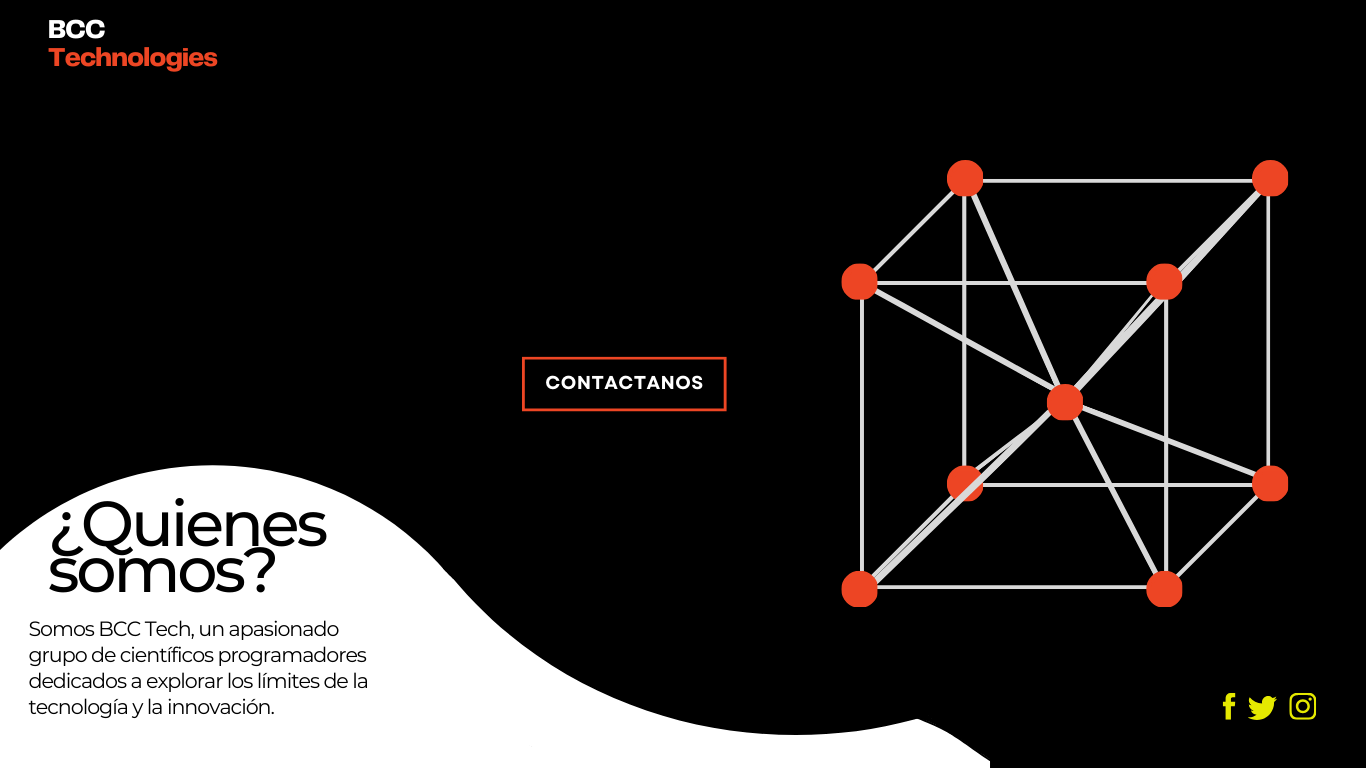
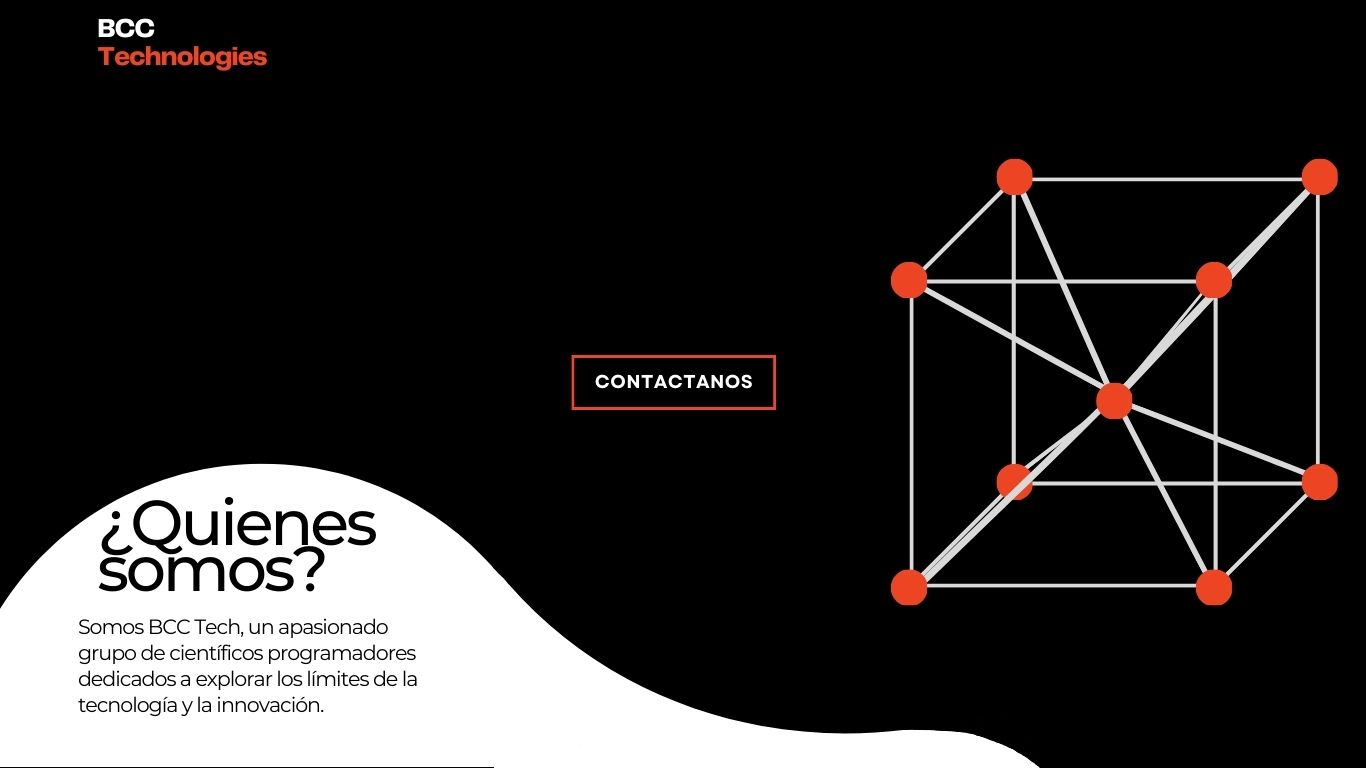
Segunda prueba para ajustar landing y organizar

diff --git a/static/html originales/aboutUs.html b/static/html originales/aboutUs.html
@@ -1,0 +1,76 @@
+<!DOCTYPE html>
+<html lang="en">
+<head>
+    <meta charset="UTF-8">
+    <meta name="viewport" content="width=device-width, initial-scale=1.0">
+    <title>BCC Technologies</title>
+    <link rel="stylesheet" href="static/aboutUs.css">
+    <link rel="icon" type="image/png" href="static/logo.png">
+</head>
+<body>
+    <header>
+        <div class="header-container">
+            <h1>BCC Technologies</h1>
+            <nav>
+                <ul>
+                    <li><a href="">Home</a></li>
+                    <li><a href="Services/">Services</a></li>
+                    <li><a href="aboutUs/">About Us</a></li>
+                    <li><a href="Contact/">Contact</a></li>
+                    <li><a href="blog/">BCC blog</a></li>
+                </ul>
+            </nav>
+        </div>
+    </header>
+
+    <section class="hero">
+        <div class="hero-container">
+            <h2>Welcome to Our Software Company</h2>
+            <p>We create innovative solutions that drive your business forward.</p>
+            <a href="Services/" class="cta-button">Learn More</a>
+        </div>
+    </section>
+
+    <section class="about">
+        <div class="about-container">
+            <h2>About Us</h2>
+            <p>Who are we? We are BCC Tech, a passionate group of programmer-scientists dedicated to exploring the limits of technology and innovation. Our story begins as physics students with a deep curiosity for the unknown and a passion for expanding knowledge.</p>
+            <p>Our name, in addition to combining our last names, is a tribute to the "Body Central Cubic" which is a concept of importance in solid-state physics.</p>
+            <p>What do we do? At BCC Tech, we specialize in custom software development that transforms ideas into concrete solutions. Whether creating cross-platform applications for companies in various industries or designing innovative products for the general public, our approach is always the same: make the complex easy and expand the interesting.</p>
+
+        </div>
+    </section>
+
+    <section class="services">
+        <div class="services-container">
+            <h2 class="headertekst">Our staff</h2>
+            <div class="service-card">
+                <img src="{% static 'confsulting.jpeg' %}" alt="">
+                <h3>Gabriel Barreiro</h3>
+                <p>Director del departamento de vainas bacanas</p>
+            </div>
+            <div class="service-card">
+                <img src="mobile-development.png" alt="">
+                <h3>Saul Castillo</h3>
+                <p>Director del departamento de marketing</p>
+            </div>
+            <div class="service-card">
+                <img src="consulting.png" alt="">
+                <h3>Enrique Casanova</h3>
+                <p>Director del departamento de finanzas</p>
+            </div>
+            <div class="service-card">
+                <img src="consulting.png" alt="">
+                <h3>Jesus Matos</h3>
+                <p>Asesor especialista en Proyectos</p>
+            </div>
+        </div>
+    </section>
+
+    <footer>
+        <div class="footer-container">
+            <p>&copy; 2023 BCC Technologies. All rights reserved.</p>
+        </div>
+    </footer>
+</body>
+</html>

diff --git a/static/html originales/blog1.html b/static/html originales/blog1.html
@@ -1,0 +1,62 @@
+{% extends "blog.html" %}
+{% block content %}
+<style>
+/* Reset some default styles */
+body, h1, h2, h3, p {
+    margin: 0;
+    padding: 0;
+}
+
+/* Global styles */
+body {
+    font-family: "Roboto", sans-serif;
+    font-size: 18px;
+    background-color: #fdfdfd;
+    color: #333333; /* Text color matches the existing style */
+}
+
+.head_text {
+    color: #ffffff; /* Header text color matches the existing style */
+}
+
+.card {
+    box-shadow: 0 16px 48px #E3E7EB;
+    background-color: #ffffff; /* Card background color matches the existing style */
+    color: #333333; /* Card text color matches the existing style */
+}
+
+</style>
+
+<header class="masthead">
+    <div class="overlay"></div>
+    <div class="container">
+        <div class="row">
+            <div class=" col-md-8 col-md-10 mx-auto">
+                <div class="site-heading">
+                    <h3 class=" site-heading my-4 mt-3 text-white"> Welcome to the Cube! </h3>
+                    <p class="text-light">Get the latest articles by our authors! &nbsp
+                    </p>
+                </div>
+            </div>
+        </div>
+    </div>
+</header>
+<div class="container">
+    <div class="row">
+        <!-- Blog Entries Column -->
+        <div class="col-md-8 mt-3 left">
+            {% for post in post_list %}
+            <div class="card mb-4">
+                <div class="card-body">
+                    <h2 class="card-title">{{ post.title }}</h2>
+                    <p class="card-text text-muted h6">{{ post.author }} | {{ post.created_on}} </p>
+                    <p class="card-text">{{post.content|slice:":200" }}</p>
+                    <a href="{% url 'post_detail' post.slug  %}" class="btn btn-primary">Read More &rarr;</a>
+                </div>
+            </div>
+            {% endfor %}
+        </div>
+        {% block sidebar %} {% include 'sidebar.html' %} {% endblock sidebar %}
+    </div>
+</div>
+{%endblock%}

diff --git a/static/html originales/blog.html b/static/html originales/blog.html
@@ -1,0 +1,47 @@
+<!DOCTYPE html>
+<html>
+
+    <head>
+        <title>BCC Blog</title>
+        <meta name="google" content="notranslate" />
+        <meta name="viewport" content="width=device-width, initial-scale=1" />
+        <link rel="stylesheet" href="blog.css">
+    </head>
+
+    <body>
+    <style>
+            
+    </style>
+
+        <!-- Navigation -->
+        <nav class="navbar navbar-expand-lg navbar-light bg-light shadow" id="mainNav">
+            <div class="container-fluid">
+                <a class="navbar-brand" href="{% url 'home' %}">BCC Blog</a>
+                <button class="navbar-toggler navbar-toggler-right" type="button" data-toggle="collapse" data-target="#navbarResponsive"
+                    aria-controls="navbarResponsive" aria-expanded="false" aria-label="Toggle navigation">
+                    <span class="navbar-toggler-icon"></span>
+                </button>
+                <div class="collapse navbar-collapse" id="navbarResponsive">
+                    <ul class="navbar-nav ml-auto">
+                        <li class="nav-item text-black">
+                            <a class="nav-link text-black font-weight-bold" href="#">About</a>
+                        </li>
+                        <li class="nav-item text-black">
+                            <a class="nav-link text-black font-weight-bold" href="#">Policy</a>
+                        </li>
+                        <li class="nav-item text-black">
+                            <a class="nav-link text-black font-weight-bold" href="#">Contact</a>
+                        </li>
+                    </ul>
+                </div>
+            </div>
+        </nav>
+        {% block content %}
+        <!-- Content Goes here -->
+        {% endblock content %}
+        <!-- Footer -->
+        <footer class="py-3 bg-grey">
+            <p class="m-0 text-dark text-center ">Copyright &copy; BCC Technologies</p>
+        </footer>
+    </body>
+</html>

diff --git a/static/html originales/index.html b/static/html originales/index.html
@@ -7,12 +7,10 @@
     <link rel="stylesheet" href="index.css">
     <link rel="icon" type="image/png" href="static/logo.png">
 </head>
-
-<!-- Selection menu -->
 <body>
     <header>
         <div class="header-container">
-            <!-- <h1><img src="{% static 'logo.png' %}" alt="BCC Technologies"></h1> -->
+            <h1><img src="{% static 'logo.png' %}" alt="BCC Technologies"></h1>
             <nav>
                 <ul>
                     <li><a href="">Home</a></li>
@@ -25,16 +23,14 @@
         </div>
     </header>
 
-<!-- First impression -->
     <section class="hero">
         <div class="hero-container">
-            <!-- <h2>Welcome to the cube</h2>
-            <p>We make the complex easy and expand the interesting.</p> -->
+            <h2>Welcome to the cube</h2>
+            <p>We make the complex easy and expand the interesting.</p>
             <a href="./aboutUs" class="cta-button">Learn More</a>
         </div>
     </section>
 
-<!-- Page -->
     <section class="services">
         <div class="services-container">
             <h2>Our Services</h2>
@@ -56,7 +52,6 @@
         </div>
     </section>
 
-<!-- Footer -->
     <footer>
         <div class="footer-container">
             <p>&copy; 2024 BCC Technologies. All rights reserved.</p>

diff --git a/static/html originales/contactUs.html b/static/html originales/contactUs.html
@@ -7,8 +7,6 @@
     <link rel="stylesheet" href="contactUs.css">
     <link rel="icon" type="image/png" href="static/logo.png">
 </head>
-
-<!-- Selection menu -->
 <body>
     <header>
         <div class="header-container">
@@ -25,7 +23,6 @@
         </div>
     </header>
 
-<!-- First impression -->
     <section class="hero">
         <div class="hero-container">
             <h2>Contact Us</h2>
@@ -33,7 +30,6 @@
         </div>
     </section>
 
-<!-- Contact page -->
     <section class="contact">
         <div class="contact-container">
             <h2>Contact Information</h2>

diff --git a/static/html originales/post_detail.html b/static/html originales/post_detail.html
@@ -1,0 +1,16 @@
+{% extends 'blog.html' %} {% block content %}
+
+<div class="container">
+  <div class="row">
+    <div class="col-md-8 card mb-4  mt-3 left  top">
+      <div class="card-body">
+        <h1>{% block title %} {{ object.title }} {% endblock title %}</h1>
+        <p class=" text-muted">{{ post.author }} | {{ post.created_on }}</p>
+        <p class="card-text ">{{ object.content | safe }}</p>
+      </div>
+    </div>
+    {% block sidebar %} {% include 'sidebar.html' %} {% endblock sidebar %}
+  </div>
+</div>
+
+{% endblock content %}

diff --git a/index.css b/index.css
@@ -12,7 +12,7 @@ body {
 }
 
 .header-container {
-    background-color: #000000;
+    /* background-color: #000000; */
     color: #ffffff;
     padding: 20px 0;
     display: flex;
@@ -23,7 +23,7 @@ body {
 
 header h1 {
     font-size: 36px;
-    margin-left: 20px;
+    margin-left: 7px;
 }
 
 nav ul {

diff --git a/static/css originales/index.css b/static/css originales/index.css
@@ -49,7 +49,7 @@ nav a:hover {
 
 /* Hero section */
 .hero {
-    background-image: url('Imagen1.JPG');
+    background-image: url('static/Imagen1.JPG');
     background-size: cover;
     background-position: center;
     text-align: center;

diff --git a/static/html originales/sidebar.html b/static/html originales/sidebar.html
@@ -1,0 +1,14 @@
+{% block sidebar %}
+
+<style>
+        .card{
+            box-shadow: 0 16px 48px #E3E7EB;
+        }
+
+</style>
+
+<!-- Sidebar Widgets Column -->
+<div class="col-md-4 float-right ">
+</div>
+
+{% endblock sidebar %}
